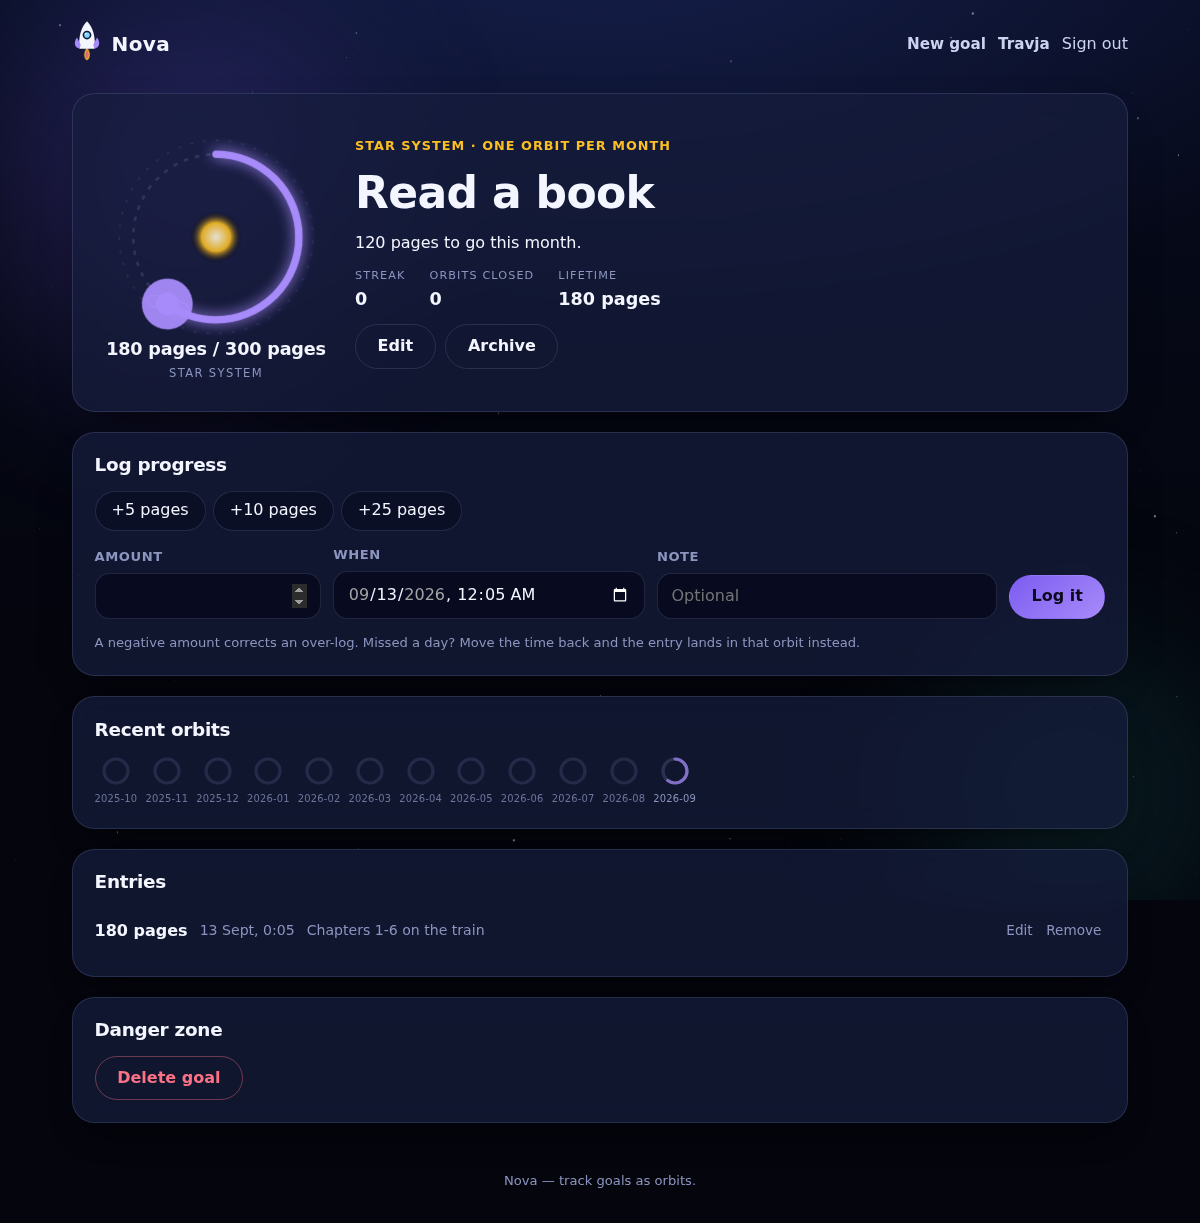
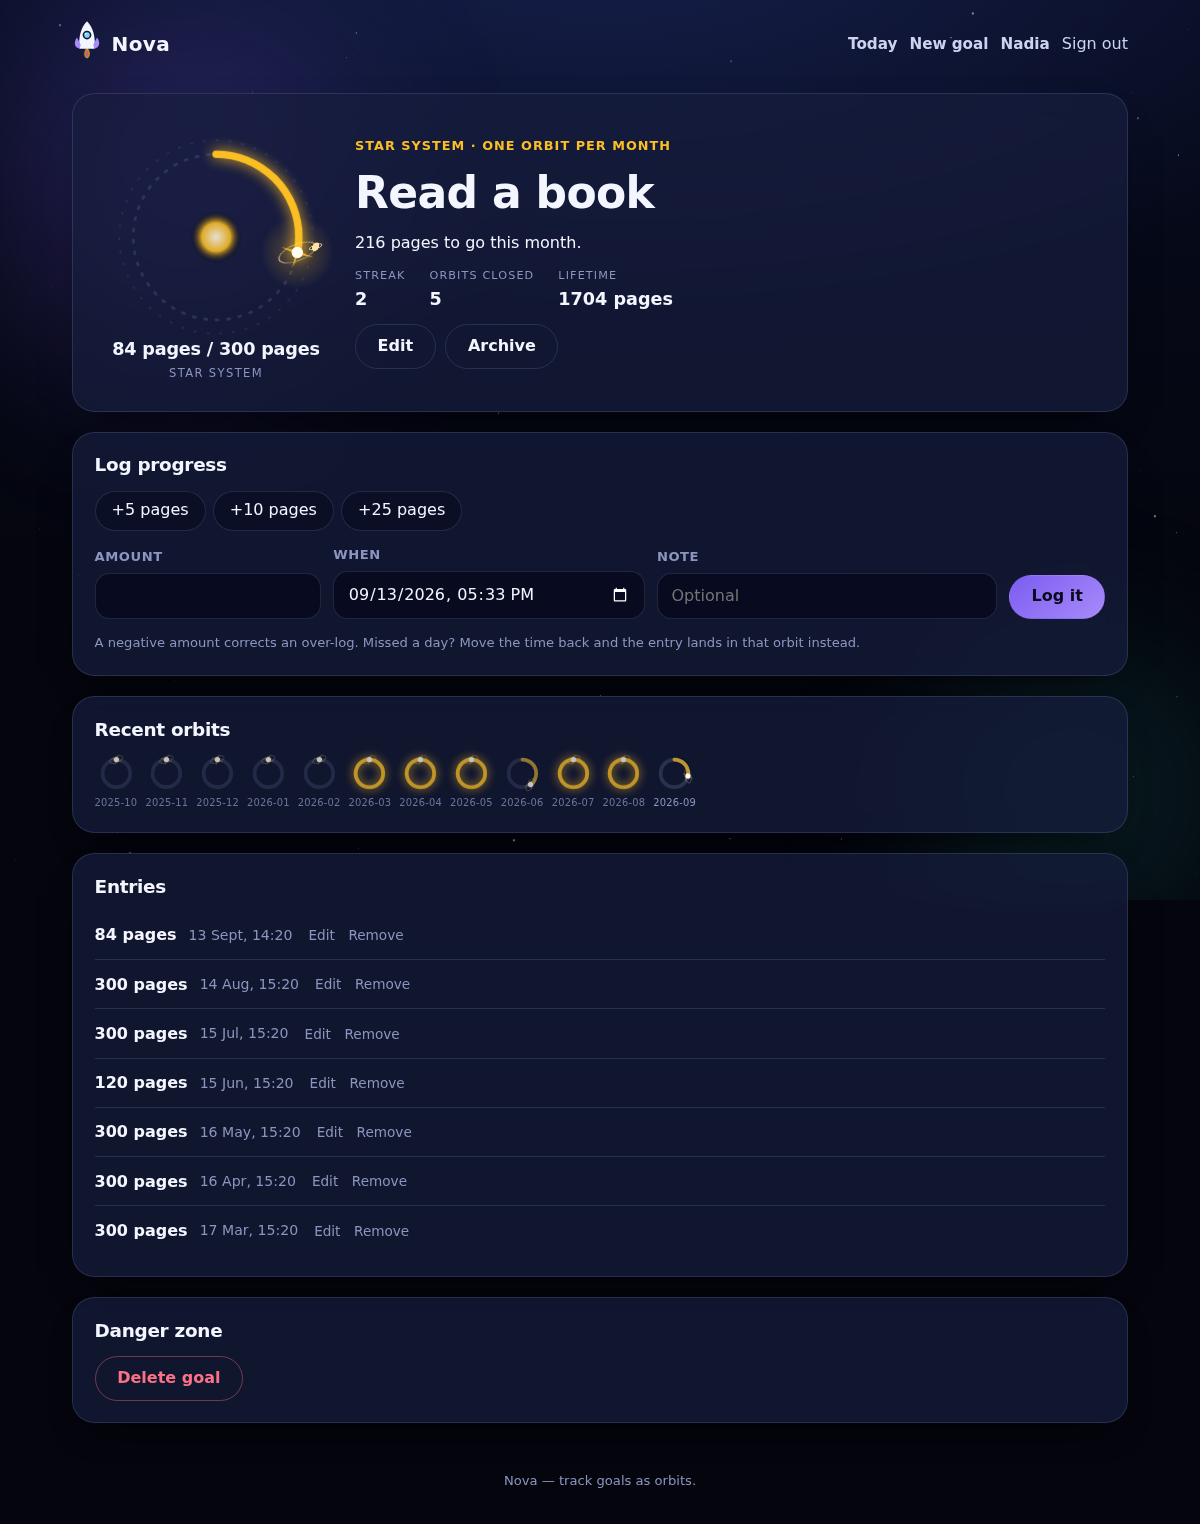
Document the visual language, with the pictures
The visuals are the one part of Nova a diff cannot review, and until now the
only way to see what a tier body or a closing orbit looks like was to run it.

`docs/VISUALS.md` is the tour: the dial, every body of every tier and how one
is pinned to a goal, what the strip looks like at 24px, a dormant orbit against
a missed one, the closing burst and why it fires exactly once, the pilot's four
moods, and the four rules the whole thing follows — with a note on what each
rule costs when it is broken. The README links it from a short "The look"
section and `ARCHITECTURE.md` points at it from the visuals chapter.

The dashboard, Today, goal detail, archived and phone screenshots are
regenerated against the current app, since every one of them still showed the
old identical circles.

Claude-Session: https://claude.ai/code/session_01JBbrrshnsEcJpfrcuHWiDV

diff --git a/docs/VISUALS.md b/docs/VISUALS.md
@@ -1,0 +1,154 @@
+# The visual language
+
+The space theme is not decoration bolted onto a progress bar — it _is_ the
+progress bar. A goal's fraction becomes an arc, and the body sits at the point
+the arc reached, so position and fill say the same thing twice.
+
+Everything here is CSS and inline SVG. No animation library, no Lottie, no
+raster assets, nothing that ships a runtime for decoration.
+
+## The dial
+
+`OrbitDial.svelte` draws one goal: a dotted track for the whole period, an arc
+for what is logged, a star at the centre and the body parked where the arc
+stops. The caption sits below the ring rather than inside it, so a goal measured
+in `180 pages / 300 pages` still reads on a phone.
+
+![A goal's detail page](screenshots/goal-detail.png)
+
+A closed orbit keeps travelling — the body carries on round the ring — because a
+habit you have already hit today should look alive rather than finished.
+
+## A body per tier, and a few per tier
+
+Every tier used to be the same circle in a different colour, which made the
+ladder the whole app is built on invisible until you read the label. Each tier
+now has its own silhouette, and three bodies inside it, so a dashboard of six
+satellites is not one drawing repeated six times.
+
+![Three bodies per tier](screenshots/tier-variants.png)
+
+| Tier            | Bodies                                             |
+| --------------- | -------------------------------------------------- |
+| **Satellite**   | a comsat, a cratered moon, a dish probe            |
+| **Planet**      | a banded giant, a ringed world, an ice world       |
+| **Star System** | a star with worlds, a binary pair, a ringed system |
+| **Galaxy**      | a spiral, a barred spiral, an elliptical           |
+| **Universe**    | a field of light, a nebula, the cosmic web         |
+
+Which body a goal flies is **pinned to its id** by `bodyVariant()` in
+`src/lib/domain/bodies.ts`, which hashes the id and takes the remainder. Nothing
+is stored on the goal row: there is no column to migrate, and no way for a body
+to change under a goal that has been flying for a year. Ids are the only thing
+about a goal that never changes — titles, colours and even tiers do.
+
+![One tier, three goals](screenshots/tier-variants-in-place.png)
+
+The one place this shows a white lie is the goal form's live preview, which
+draws the tier's first body because the goal has no id yet.
+
+### At 24px
+
+The history strip draws the same body at a fraction of the size, where detail
+stops being detail and becomes mush. Below roughly ten pixels across each body
+drops to its tier's silhouette — disc and bar, banded disc, spike, swirl, dot
+field — which is what stays readable when a ring is the size of a full stop.
+
+![The history strip](screenshots/tier-bodies-small-after.png)
+
+### Dormant orbits
+
+A goal that was archived for a whole period never flew it, and that has to look
+different from a period that was flown and missed. Dormant orbits are drawn
+cold: grey, dimmed, with motion paused rather than removed.
+
+![Dormant orbits in the strip](screenshots/dormant-orbits.png)
+
+Above, W27–W32 were slept through and W26 and W33 were missed.
+
+## Closing an orbit
+
+The best moment in the app is the one that used to pass unnoticed. When a log
+closes an orbit the arc sweeps up to full, an ignition fires where the body
+reached, the streak lands rather than changing, and the pilot salutes.
+
+![Closing an orbit](screenshots/orbit-celebration.png)
+
+It scales with the tier, because a satellite closing daily and a universe
+closing once a year are not the same news: six rays over 620ms for the one,
+sixteen over 960ms for the other. Both are over inside a second, and neither
+blocks anything.
+
+It fires **once per closing** — never on a re-render, a second log into an orbit
+that is already closed, a period that rolled over between looks, or a return
+visit to a goal that closed yesterday. `src/lib/domain/celebration.ts` makes that
+call on plain data, and `src/lib/celebration.svelte.ts` holds the tab's memory of
+what each orbit looked like last time it was seen.
+
+On `/today` a goal that closes leaves the at-risk list and takes its dial with
+it, so the moment there is the row leaving, the live region naming the goal, and
+the pilot's salute.
+
+![Closing an orbit on /today](screenshots/orbit-celebration-today.png)
+
+## The pilot
+
+The astronaut used to drift on empty states and do nothing else. It now reads
+the week off the same split `/today` is drawn from, and says what it sees.
+
+![The pilot's four moods](screenshots/mascot-states.png)
+
+| Mood        | When                                                |
+| ----------- | --------------------------------------------------- |
+| **Resting** | everything that could close has closed              |
+| **Working** | orbits in flight, none of them behind               |
+| **Alert**   | something needs attention with time left to give it |
+| **Adrift**  | a period nearly over and still well short of target |
+
+`mascotFor()` in `src/lib/domain/mascot.ts` names the orbit that decided the
+mood, so the pilot points at that one rather than gesturing at the screen. The
+copy is warm on purpose — a missed orbit is information, not a telling-off — and
+the pilot can be sent away with the ✕ if you find it distracting.
+
+![The pilot in place](screenshots/mascot-today.png)
+
+## The rules
+
+Four of these are load-bearing, and breaking any of them shows up immediately:
+
+- **Everything yields to `prefers-reduced-motion`**, handled globally in
+  `src/lib/styles/app.css`. Position has to carry the meaning without motion,
+  which is why a body is placed by the arc's angle and never by an animation,
+  why the drifting pose is a static transform with the drift animated on top of
+  it, and why the closing burst is simply not drawn.
+- **Anything random uses a seeded generator.** The starfield and a universe's
+  field of light both come from one, so the server and the browser draw the same
+  sky and hydration stays quiet. A bare `Math.random()` in a component is a
+  hydration mismatch waiting to happen.
+- **Size in pixels, not user units, inside a stretched viewBox.** A
+  `preserveAspectRatio="none"` SVG turns circles into ellipses; the starfield
+  sizes its stars in pixels for exactly this reason. The dials are square, so
+  bodies there are free to use user units.
+- **Draw it, then look at it at the size it ships at.** Almost everything on
+  this page was redrawn at least once after seeing it on a 390px screen: haloes
+  that read as coins, flares that swallowed their own orbit rings, a dish that
+  looked like a monocle, a binary that was two specks.
+
+## Where it lives
+
+```
+src/lib/components/OrbitDial.svelte     The dial: track, arc, core, body, burst
+src/lib/components/TierBody.svelte      Picks the body and sets its colours
+src/lib/components/bodies/              One file per tier, holding its bodies
+src/lib/components/OrbitHistory.svelte  The strip of recent orbits
+src/lib/components/Mascot.svelte        The pilot, and the copy beside it
+src/lib/components/Astronaut.svelte     The sprite itself, one pose per mood
+src/lib/components/Starfield.svelte     The backdrop, three parallax layers
+src/lib/domain/bodies.ts                Which body a goal flies
+src/lib/domain/celebration.ts           Whether a closing just happened
+src/lib/domain/mascot.ts                What the week adds up to
+```
+
+The three domain modules are pure functions over plain data, tested like the
+rest of `src/lib/domain`. Nothing about how something looks is decided inside a
+component if it can be decided on the data instead.

diff --git a/README.md b/README.md
@@ -40,6 +40,22 @@ disappearing; seeing them done is part of the reward.
 On a narrow screen it is where a fresh visit lands, and the tiered dashboard
 stays one tap away.
 
+## The look
+
+The orbit is the progress bar, not decoration on top of one. Each tier has its
+own body — and three of them, so a screen full of satellites is not one drawing
+repeated — pinned to the goal so it never changes under you.
+
+![Three bodies per tier](docs/screenshots/tier-variants.png)
+
+Closing an orbit is a moment rather than a line of text changing, and the pilot
+on `/today` reads the week off the same numbers the list is drawn from. All of
+it is CSS and inline SVG, and all of it yields to `prefers-reduced-motion`.
+
+[`docs/VISUALS.md`](docs/VISUALS.md) is the tour: every body, what a dormant
+orbit looks like, how a closing fires exactly once, the pilot's four moods, and
+the four rules that keep the whole thing honest.
+
 ## Stack
 
 - **SvelteKit 2** with Svelte 5 runes, TypeScript throughout
@@ -149,12 +165,13 @@ a snapshot before you need it.
 ## Project layout
 
 ```
-src/lib/domain/     Pure logic: tiers, period maths, orbit progress, validation
-src/lib/server/     Database schema, sessions, password hashing, services
-src/lib/components/ Svelte components, including the animated space visuals
-src/routes/         Pages and form actions
-e2e/                Playwright journeys
-scripts/            Migration runner and the PWA icon generator
+src/lib/domain/            Pure logic: tiers, period maths, orbit progress, validation
+src/lib/server/            Database schema, sessions, password hashing, services
+src/lib/components/        Svelte components, including the animated space visuals
+src/lib/components/bodies/ The bodies each tier can be drawn as, one file per tier
+src/routes/                Pages and form actions
+e2e/                       Playwright journeys
+scripts/                   Migration runner and the PWA icon generator
 ```
 
 `src/lib/domain` has no imports from `$lib/server` or SvelteKit, so the same
@@ -165,7 +182,8 @@ arrives.
 
 Work is tracked as GitHub issues, grouped by milestone. `docs/ARCHITECTURE.md`
 explains the decisions behind the shape of the code — read it before adding a
-subsystem.
+subsystem — and [`docs/VISUALS.md`](docs/VISUALS.md) covers the visual side:
+the dial, the bodies, the celebration, the pilot, and the rules they all follow.
 
 Before opening a pull request:
 

diff --git a/docs/ARCHITECTURE.md b/docs/ARCHITECTURE.md
@@ -100,6 +100,10 @@ under the user's id before inserting.
 
 ## The visuals
 
+[`VISUALS.md`](VISUALS.md) is the illustrated tour of this section — every body,
+the celebration, the pilot's moods, and what each rule below costs when it is
+broken.
+
 The space theme is not decoration bolted on afterwards; the orbit is the
 progress bar. `OrbitDial.svelte` maps a goal's fraction to an arc and puts the
 body at the matching angle, so position and fill say the same thing two ways.
